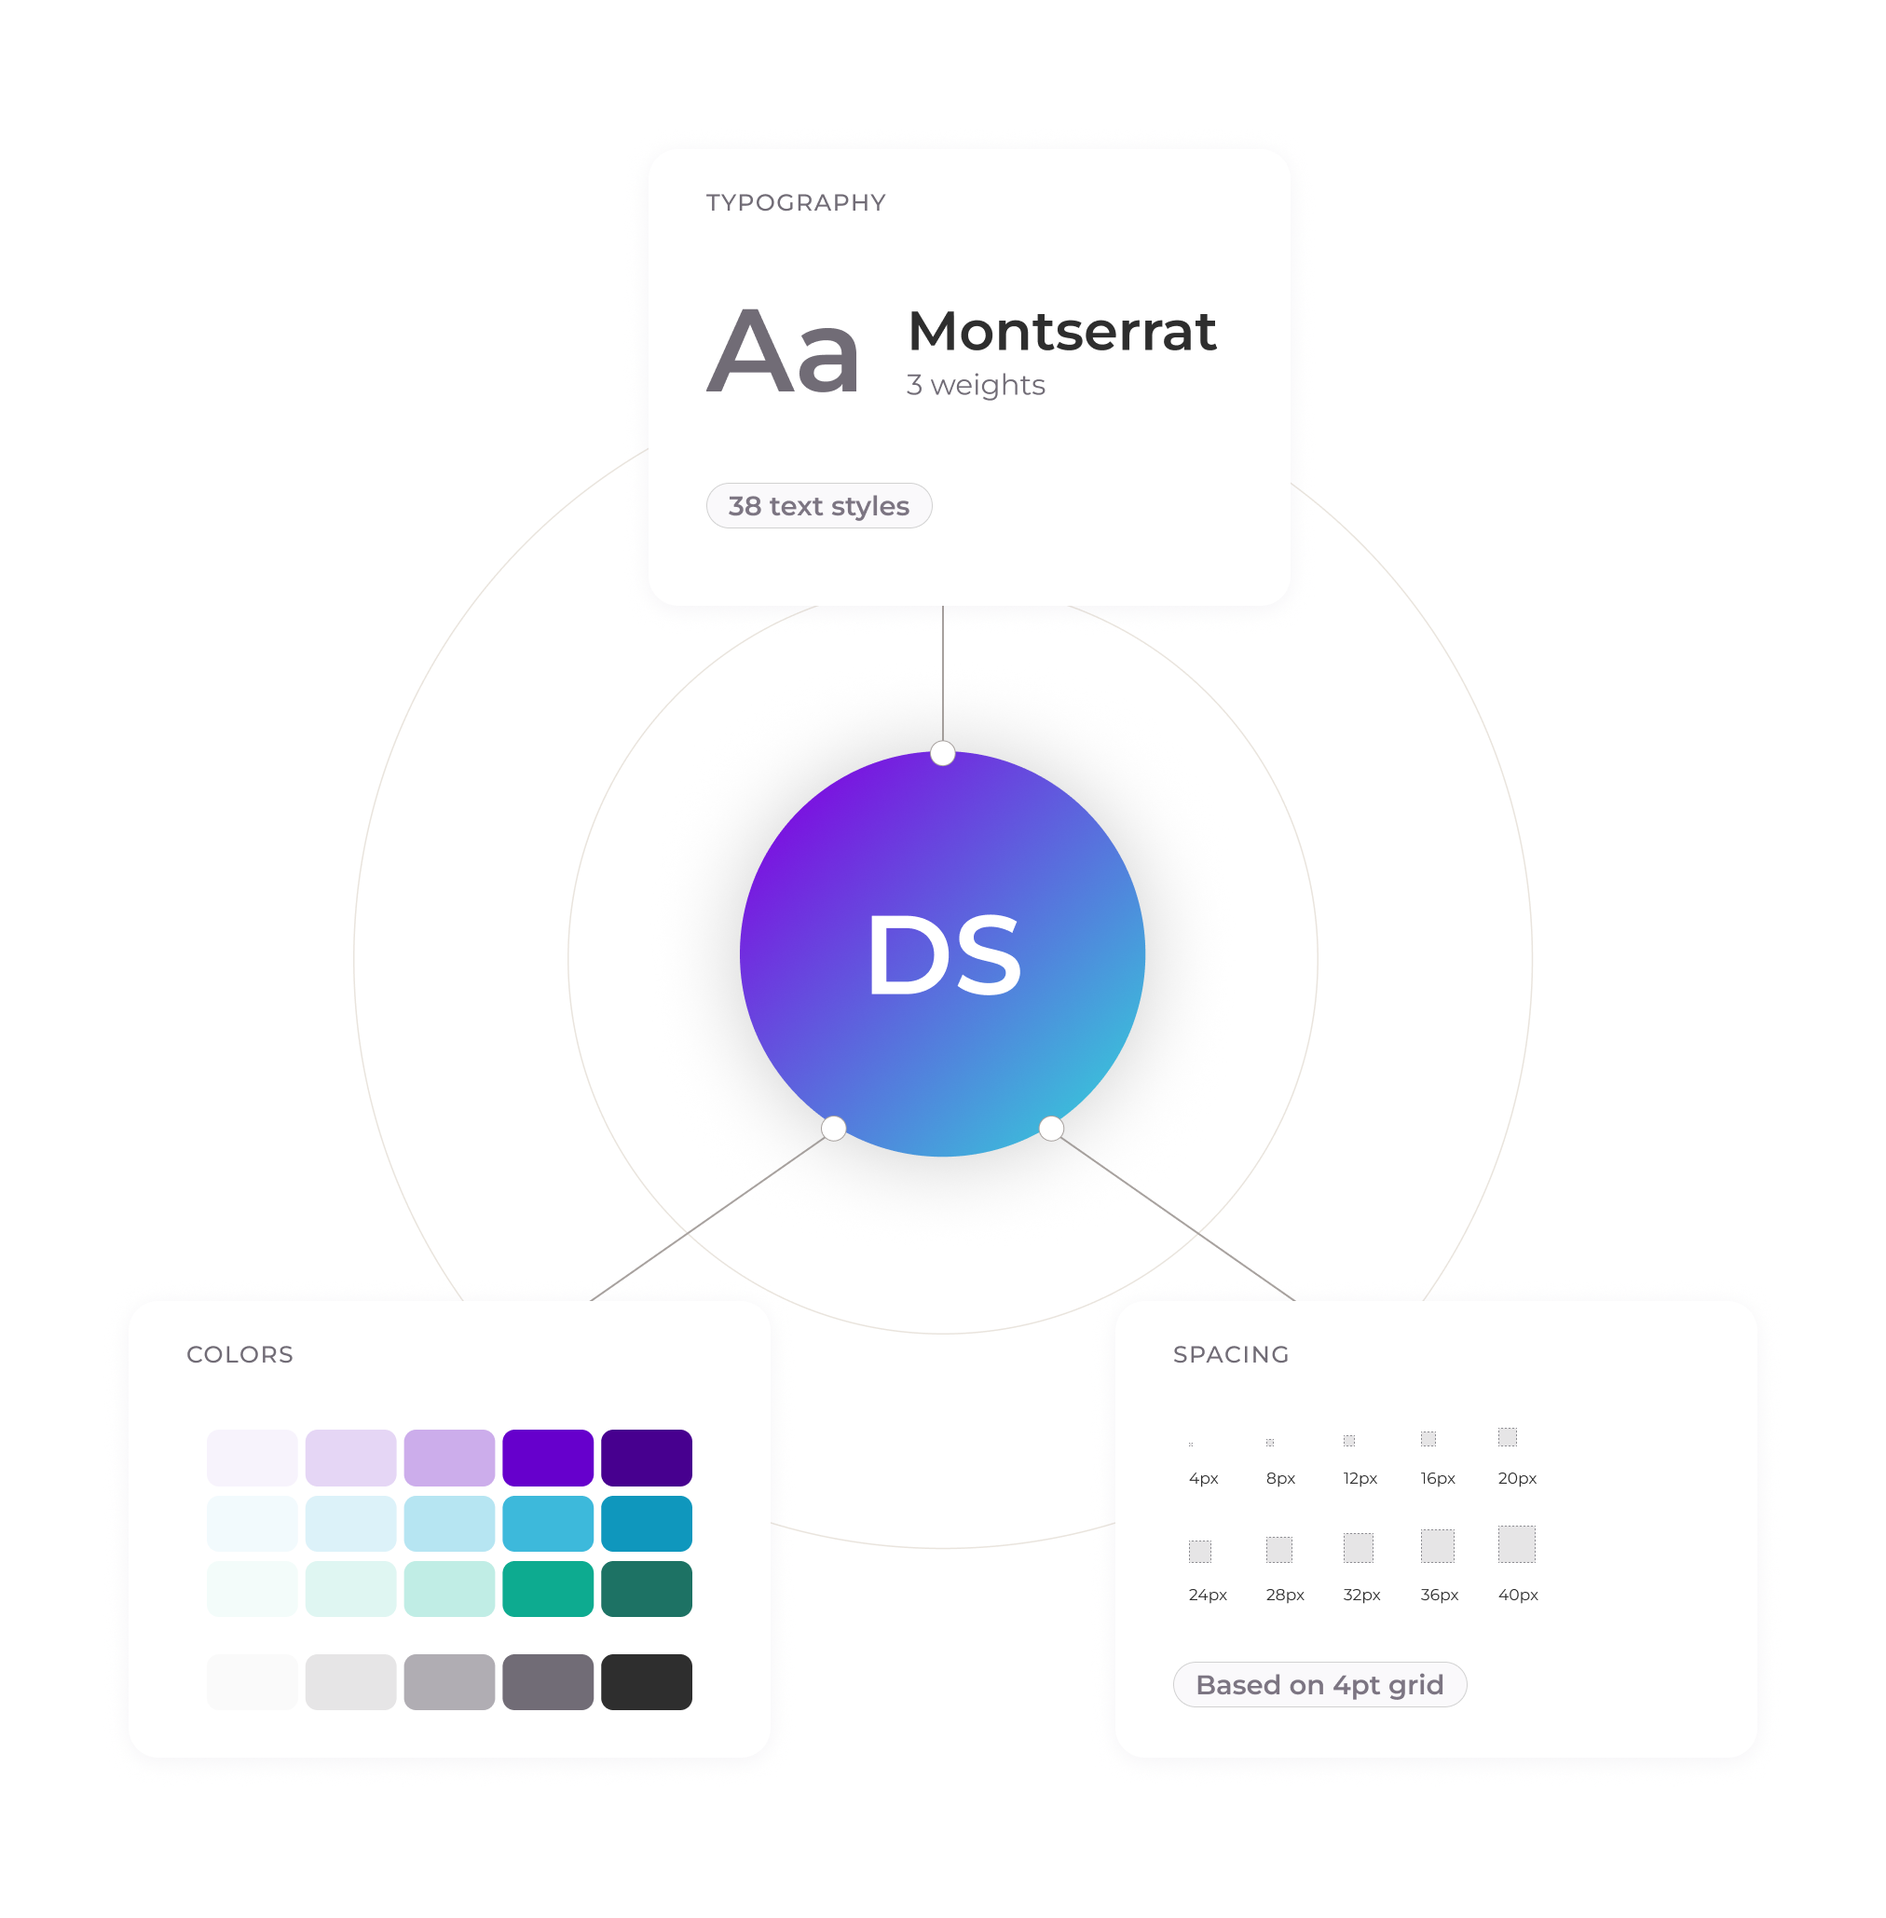
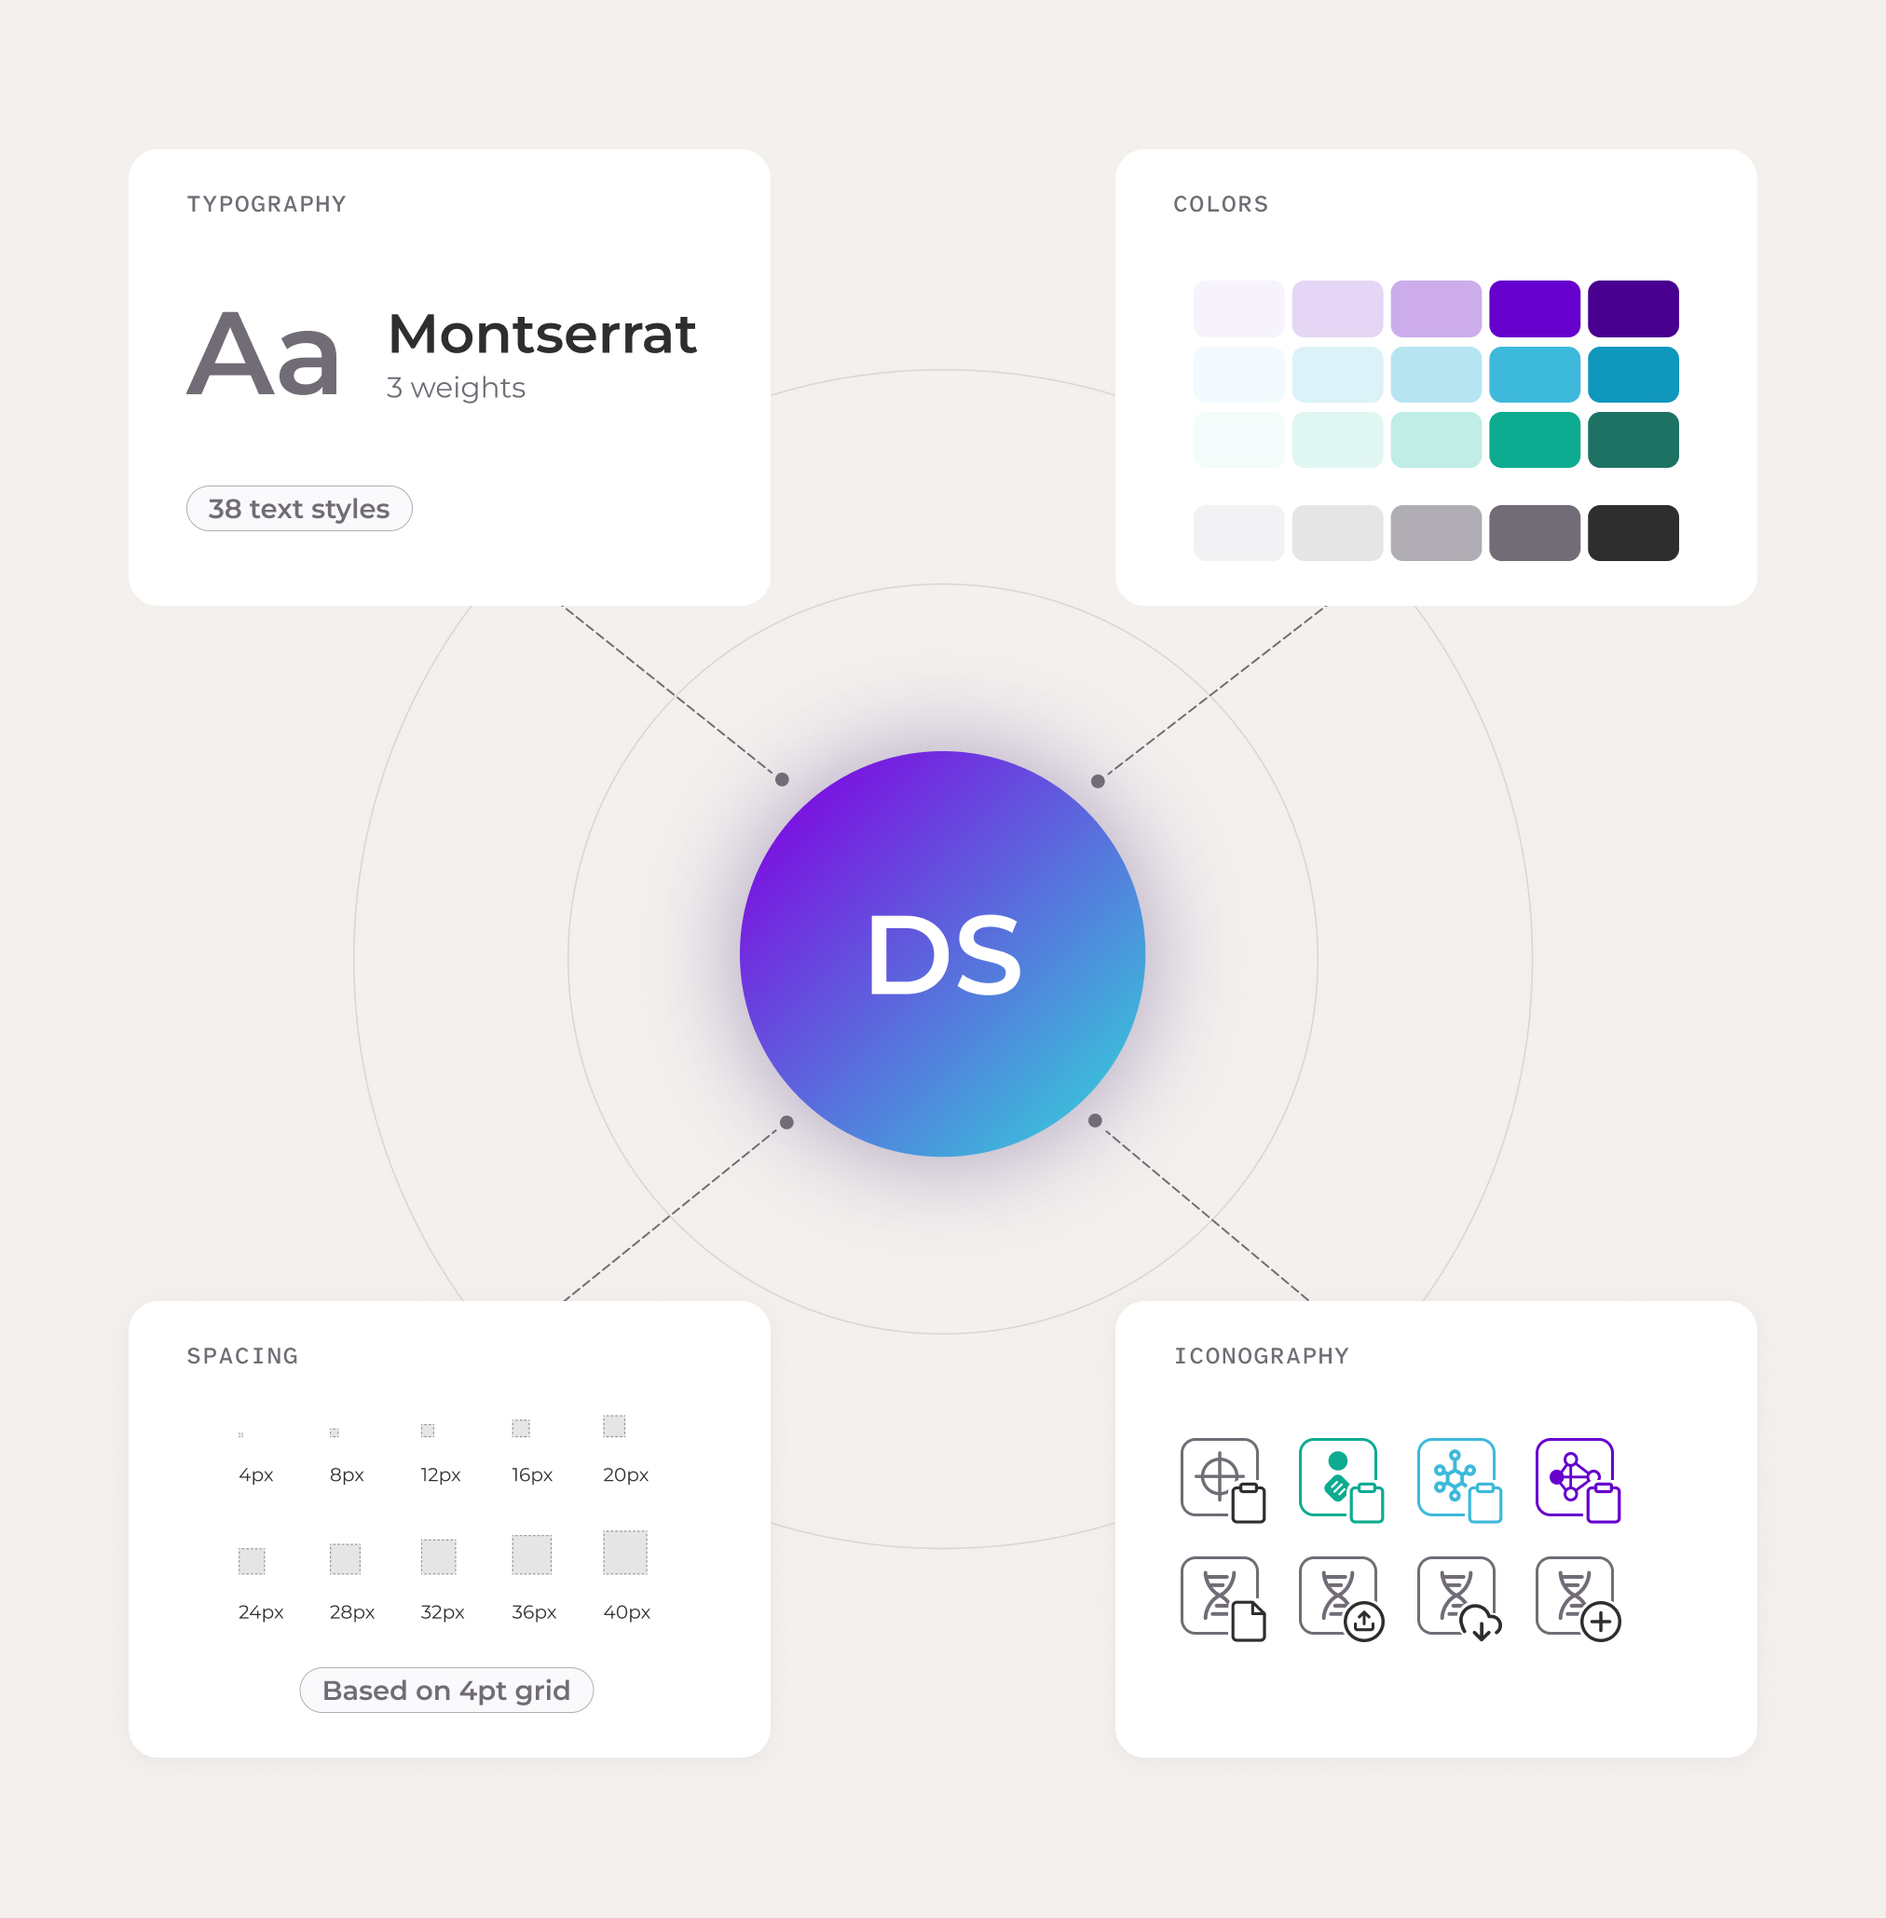
:children_crossing: Add video poster images and drop unused assets

diff --git a/public/main.js b/public/main.js
@@ -65,6 +65,20 @@ function initReveal() {
    PLAY VIDEO ONCE WHEN VISIBLE
 ============================================ */
 
+// Autoplay blocked (browser policy, iOS Low Power Mode, user setting):
+// swap the video for its still image (data-placeholder)
+function showVideoPlaceholder(video) {
+  const src = video.dataset.placeholder;
+  if (!src) return;
+
+  const img = new Image();
+  img.alt = video.getAttribute('aria-label') || '';
+  img.className = 'cs-video-placeholder';
+  // Keep the video if the image is missing
+  img.onload = () => video.replaceWith(img);
+  img.src = src;
+}
+
 function initPlayOnView() {
   const videos = document.querySelectorAll('video[data-play-on-view]');
   if (!videos.length) return;
@@ -72,8 +86,10 @@ function initPlayOnView() {
   const observer = new IntersectionObserver((entries) => {
     entries.forEach(entry => {
       if (entry.isIntersecting) {
-        entry.target.play().catch(() => {});
-        observer.unobserve(entry.target);
+        const video = entry.target;
+        const attempt = video.play();
+        if (attempt) attempt.catch(() => showVideoPlaceholder(video));
+        observer.unobserve(video);
       }
     });
   }, { threshold: 0.5 });
